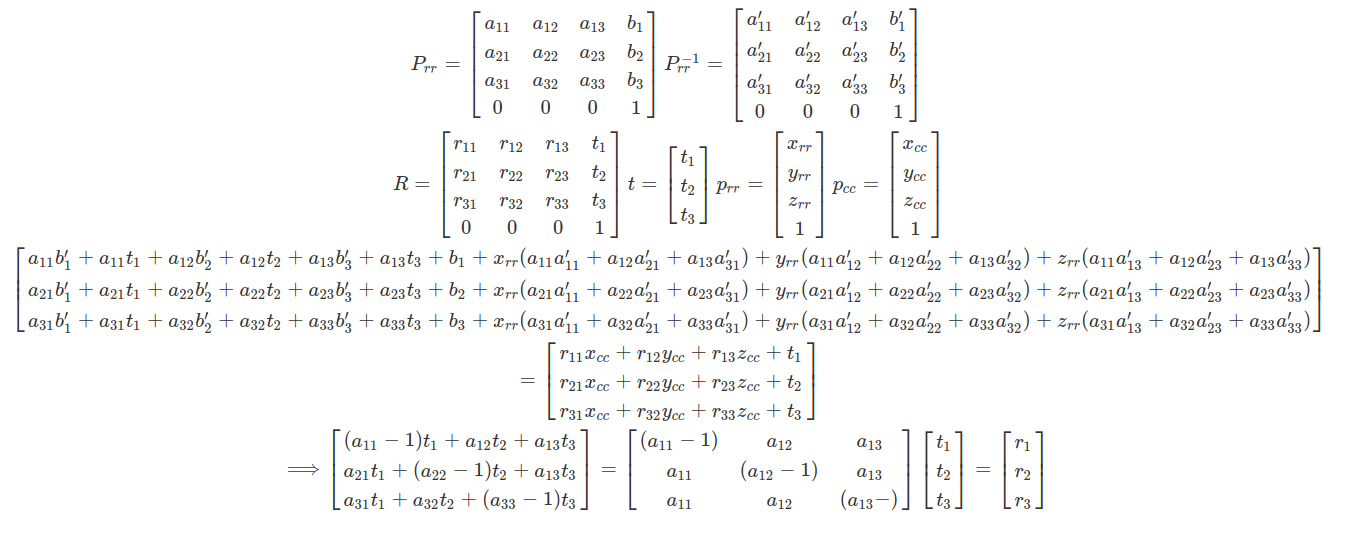
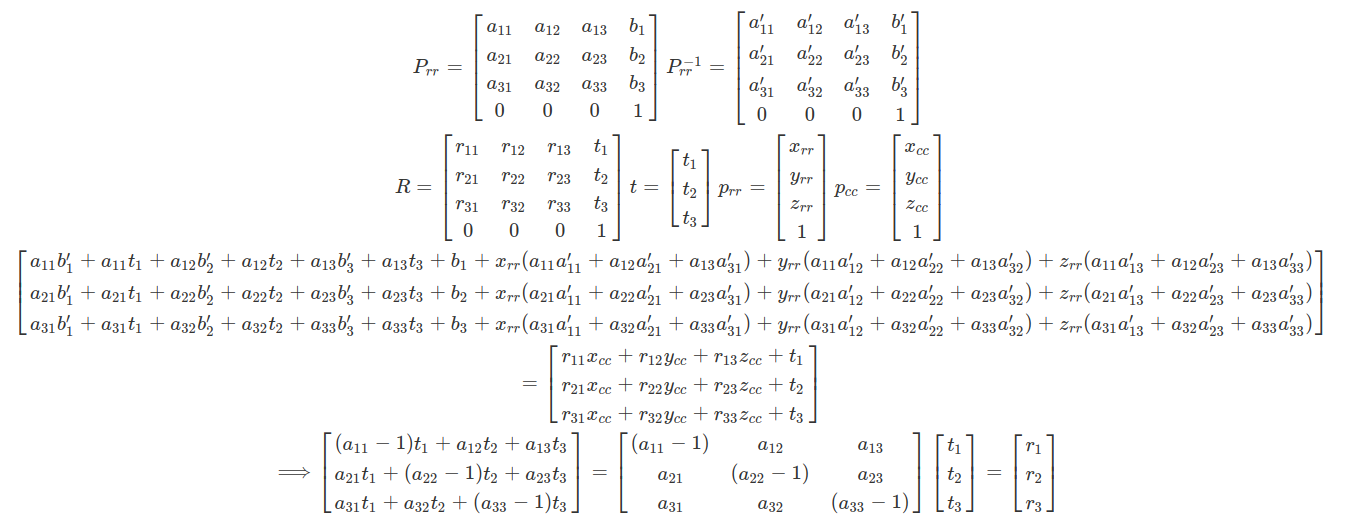
added a figure of translation linear system

Changed region(s): [[0.0, 0.0, 0.9985, 0.9697]]

diff --git a/src/ransac_calib.py b/src/ransac_calib.py
@@ -17,6 +17,9 @@ from sklearn.linear_model import RANSACRegressor
 class Calibrator(object):
     def __init__(self):
         self.samples = []
+        self.P_rr = []
+        self.p_rr = []
+        self.p_cc = []
         self.distance_threshold = 0.1
         self.distance_max = 2.0
         self.angle_threshold = 15/180.*np.pi
@@ -38,6 +41,7 @@ class Calibrator(object):
         if len(self.samples) == 0:
             self.samples.append(sample)
             self.previous_vio_rot = vio_rot
+            self.appendRpp(gps_rot, gps_pos, vio_pos)
         else:
             previous_sample = self.samples[-1]
             distance = np.linalg.norm(previous_sample - sample)
@@ -50,26 +54,18 @@ class Calibrator(object):
                 self.samples.append(sample)
                 self.resetDistanceThreshold()
                 self.previous_vio_rot = vio_rot
+                self.appendRpp(gps_rot, gps_pos, vio_pos)
         # estimate transform using RANSAC
         if len(self.samples) % 10 == 0:
             self.estimateTransform()
         
-        
-    def resetDistanceThreshold(self):
-        self.distance_threshold = random.random()*self.distance_max
-        print("Next translation goal: ", self.distance_threshold)
-    
-    def calcRotationDiff(self, r1, r2):
-        err_matrix = (np.matmul(r1.transpose(),r2) - np.matmul(r1,r2.transpose()))/2.
-        x3 = err_matrix[1, 0]
-        x2 = err_matrix[0, 2]
-        x1 = err_matrix[2, 1]
-        return (x1 + x2 + x3)
     
     def estimateTransform(self):
         # get ransac data
         Y = []
         X = []
+        p_gps = np.array([sample[:, 0] for sample in self.samples])
+        p_vio = np.array([sample[:, 1] for sample in self.samples])
         N = len(self.samples)
         for i in range(N-1):
             pos = self.samples[i]
@@ -94,15 +90,140 @@ class Calibrator(object):
         print("data size: ", X.shape[0])
         # ransac
         # https://scikit-learn.org/stable/modules/generated/sklearn.linear_model.RANSACRegressor.html
-        self.ransacRotation(X, Y)
+        R = self.ransacRotation(X, Y)
+        self.ransacTaslation(R)
 
     def ransacRotation(self, X, Y):
         X = X[:, :-3]
-        print(X.shape)
         reg = RANSACRegressor(random_state=0).fit(X, Y)
         params = reg.estimator_.coef_
         inlier_mask = reg.inlier_mask_
-        print(params.reshape((3,3)))
+        return params.reshape((3,3))
+        
+    def ransacTaslation(self, R):
+        P_rr_n = np.array(self.P_rr)
+        p_rr_n = np.array(self.p_rr)
+        p_cc_n = np.array(self.p_cc)
+        N = P_rr_n.shape[0]
+        X = []
+        Y = []
+        for i in range(N):
+            P_rr = P_rr_n[i]
+            p_rr = p_rr_n[i]
+            p_cc = p_cc_n[i]
+            A, r = self.computeTaslationSystemParam(P_rr, p_rr, p_cc, R)
+            for j in range(3):
+                X.append(A[j, :])
+                Y.append(r[j])
+            #print(A)
+            #print(r)
+            inv_P_rr = np.linalg.inv(P_rr)
+            T0 = tf.transformations.translation_matrix((-0.1, -0.77781744, -0.63639613))
+            print('P_rr\n')
+            print(P_rr)
+            print('inv_P_rr\n')
+            print(inv_P_rr)
+            print('p_rr\n')
+            print(p_rr)
+            print('p_cc\n')
+            print(p_cc)
+            print('left\n')
+            print(np.matmul(np.matmul(np.matmul(P_rr, T0), inv_P_rr), p_rr))
+            trans_vec = (0.1, 0.1, 1)
+            trans = tf.transformations.translation_matrix(trans_vec)
+            quaternion = (0.3826834, 0, 0, 0.9238795)
+            rot = tf.transformations.quaternion_matrix(quaternion)
+            T = np.matmul(trans, rot)
+            T_gt = np.linalg.inv(T)
+            print('right\n')
+            print(np.matmul(T_gt, p_cc))
+            print('-'*20)
+            p_rc = np.matmul(T_gt, p_cc)
+            p_const = np.matmul(inv_P_rr, p_rc) - np.matmul(inv_P_rr, p_rr)
+            print('p_const\n')
+            print(p_const)
+            print('\n')
+        reg = RANSACRegressor(random_state=0).fit(X, Y)
+        params = reg.estimator_.coef_
+        print(params)
+            
+    def computeTaslationSystemParam(self, P_rr, p_rr, p_cc, R):
+        inv_P_rr = np.linalg.inv(P_rr)
+        a11 = P_rr[0, 0]
+        a12 = P_rr[0, 1]
+        a13 = P_rr[0, 2]
+        a21 = P_rr[1, 0]
+        a22 = P_rr[1, 1]
+        a23 = P_rr[1, 2]
+        a31 = P_rr[2, 0]
+        a32 = P_rr[2, 1]
+        a33 = P_rr[2, 2]
+        b1 = P_rr[0, 3]
+        b2 = P_rr[1, 3]
+        b3 = P_rr[2, 3]
+        a11_ = inv_P_rr[0, 0]
+        a12_ = inv_P_rr[0, 1]
+        a13_ = inv_P_rr[0, 2]
+        a21_ = inv_P_rr[1, 0]
+        a22_ = inv_P_rr[1, 1]
+        a23_ = inv_P_rr[1, 2]
+        a31_ = inv_P_rr[2, 0]
+        a32_ = inv_P_rr[2, 1]
+        a33_ = inv_P_rr[2, 2]
+        b1_ = inv_P_rr[0, 3]
+        b2_ = inv_P_rr[1, 3]
+        b3_ = inv_P_rr[2, 3]
+        r11 = R[0, 0]
+        r12 = R[0, 1]
+        r13 = R[0, 2]
+        r21 = R[1, 0]
+        r22 = R[1, 1]
+        r23 = R[1, 2]
+        r31 = R[2, 0]
+        r32 = R[2, 1]
+        r33 = R[2, 2]
+        x_cc = p_cc[0]
+        y_cc = p_cc[1]
+        z_cc = p_cc[2]
+        x_rr = p_rr[0]
+        y_rr = p_rr[1]
+        z_rr = p_rr[2]
+        
+        left_r1 = a11*b1_ + a12*b2_ + a13*b3_ + b1 + x_rr*(a11*a11_ + a12*a21_ + a13*a31_) + y_rr*(a11*a12_ + a12*a22_ + a13*a32_) + z_rr*(a11*a13_ + a12*a23_ + a13*a33_)
+        left_r2 = a21*b1_ + a22*b2_ + a23*b3_ + b2 + x_rr*(a11_*a21 + a21_*a22 + a23*a31_) + y_rr*(a12_*a21 + a22*a22_ + a23*a32_) + z_rr*(a13_*a21 + a22*a23_ + a23*a33_)
+        left_r3 = a31*b1_ + a32*b2_ + a33*b3_ + b3 + x_rr*(a11_*a31 + a21_*a32 + a31_*a33) + y_rr*(a12_*a31 + a22_*a32 + a32_*a33) + z_rr*(a13_*a31 + a23_*a32 + a33*a33_)
+        right_r1 = r11*x_cc + r12*y_cc + r13*z_cc
+        right_r2 = r21*x_cc + r22*y_cc + r23*z_cc
+        right_r3 = r31*x_cc + r32*y_cc + r33*z_cc
+        
+        r1 = right_r1 - left_r1
+        r2 = right_r2 - left_r2
+        r3 = right_r3 - left_r3
+        
+        r = np.array((r1, r2, r3))
+        A = np.array([[a11-1, a12, a13],[a21, a22-1, a23],[a31, a32, a33-1]])
+        return A, r
+        
+    
+    def resetDistanceThreshold(self):
+        self.distance_threshold = random.random()*self.distance_max
+        print("Next translation goal: ", self.distance_threshold)
+    
+    def calcRotationDiff(self, r1, r2):
+        err_matrix = (np.matmul(r1.transpose(),r2) - np.matmul(r1,r2.transpose()))/2.
+        x3 = err_matrix[1, 0]
+        x2 = err_matrix[0, 2]
+        x1 = err_matrix[2, 1]
+        return (x1 + x2 + x3)
+    
+    def appendRpp(self, R_rr, p_rr, p_cc):
+        P_rr = np.zeros((4, 4))
+        P_rr[:4, :4] = R_rr
+        P_rr[:, 3] = p_rr
+        self.P_rr.append(P_rr)
+        self.p_rr.append(p_rr)
+        self.p_cc.append(p_cc)
+        
         
     def getPositionFromOdom(self, odom):
         x = odom.pose.pose.position.x
@@ -130,6 +251,7 @@ class Transformer(object):
         self.T = np.matmul(trans, rot)
         print("Ground truth T_vio2robot: ")
         print(np.linalg.inv(self.T))
+        T_gt = np.linalg.inv(self.T)
         
         self.sub_vio = rospy.Subscriber('/mavros/odometry/in', Odometry, self.vioCallback, queue_size=1)
         self.pub_vio = rospy.Publisher('/vio/odom', Odometry, queue_size=1)
